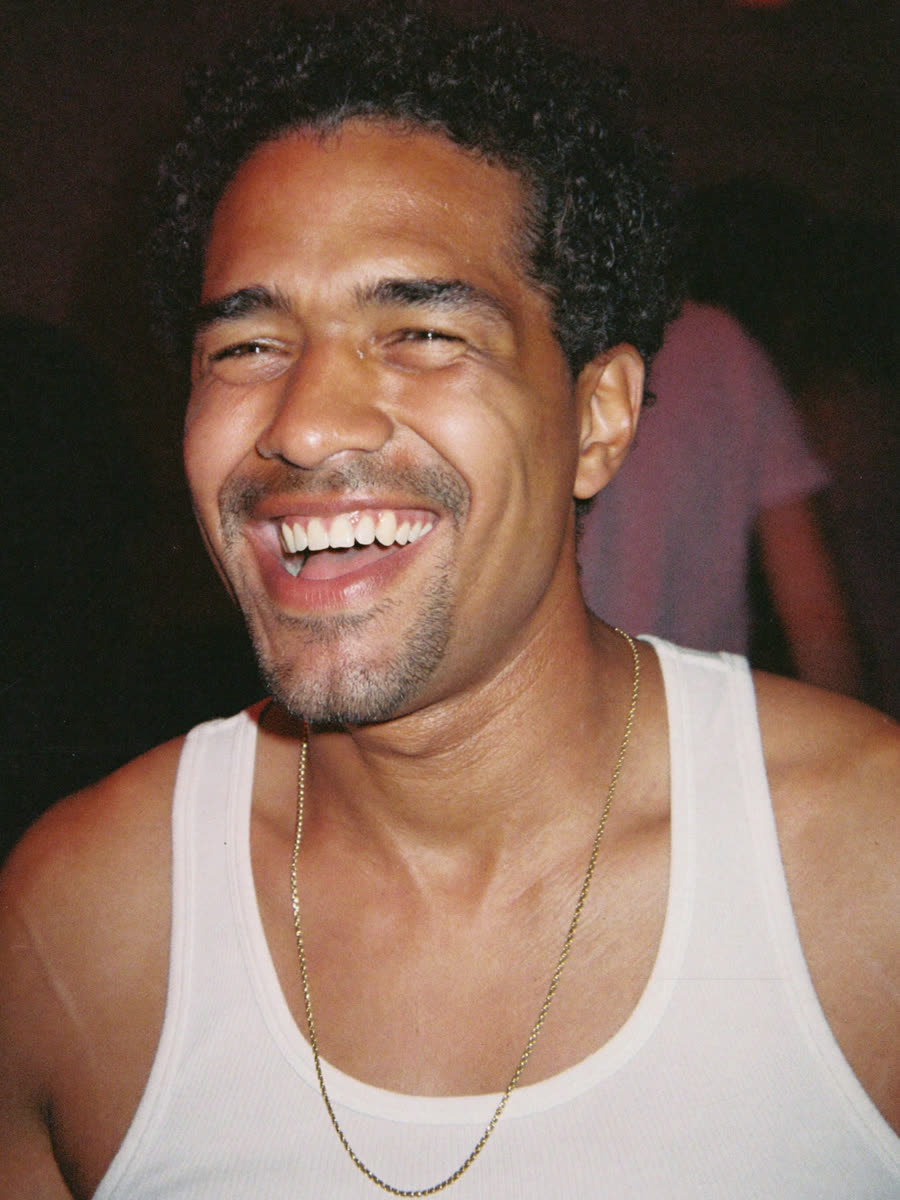
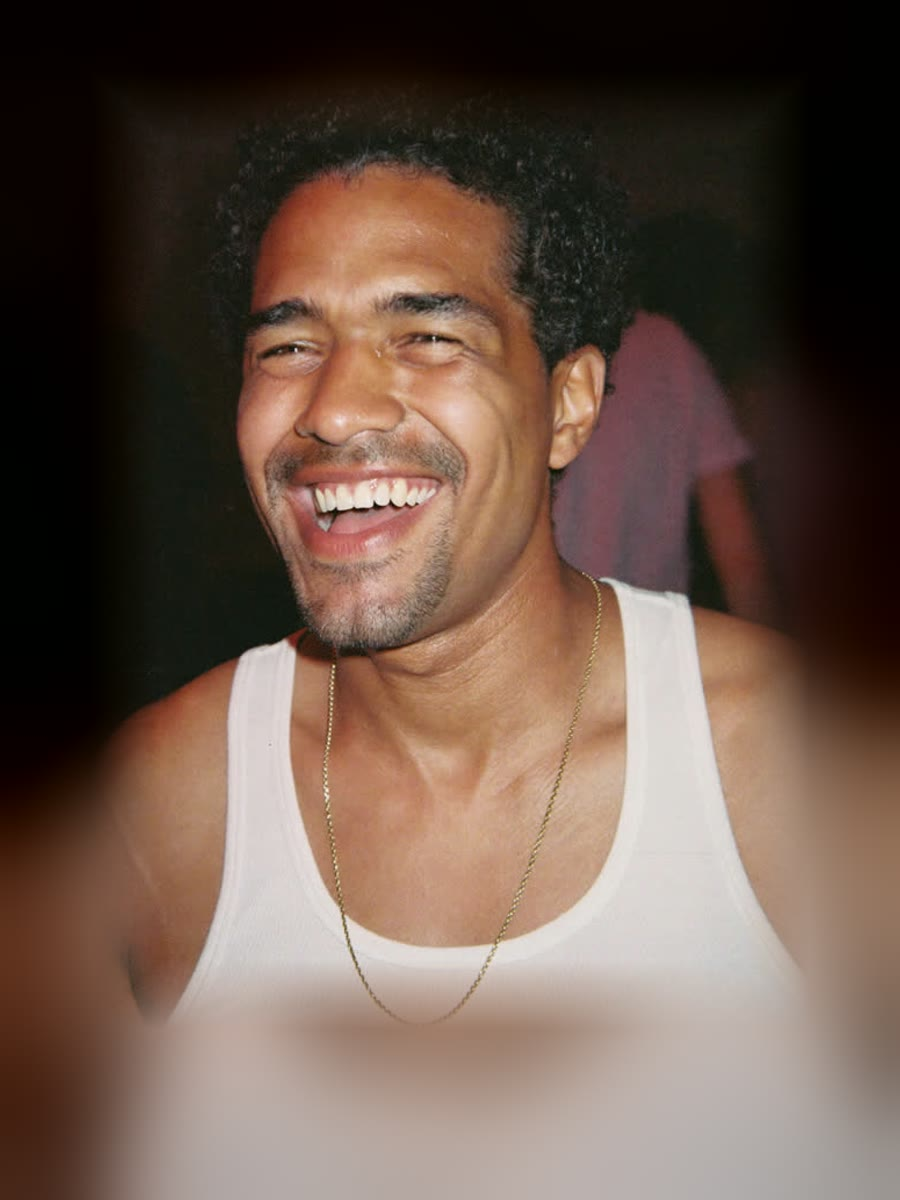
The wordmark stops going through the optimizer, and the four faces match
The logo that "disappeared" was never layout: next/image's dev optimizer HANGS
on this PNG at w=640 and above — 25s with no response — so the browser's request
simply never came back. It renders at w=384 in 52ms, which is why it survived
some loads and not others, and why restarting the server appeared to fix it.
A 25KB wordmark is smaller than the optimizer's own round trip, so all three
copies are `unoptimized` and served straight from /public. Verified loading at
both breakpoints on both pages.

The four role photographs were shot at four different distances: heads measured
115, 130, 125 and 195 pixels on a common scale, which is why the promoter looked
like he was leaning into the camera. Artist, agent and venue are cropped tighter
and the promoter is scaled down into a blurred, feathered surround — a flat pad
left a visible rectangle, and his frame has no room to crop outward. All four
now land near 150.

/founding's run takes the website's heading too ("Everything a booking takes —
in one place"), read from the catalogue like its five captions, so it is still
eight languages with nothing new to translate.

diff --git a/src/app/founding/_components/FoundingExperience.tsx b/src/app/founding/_components/FoundingExperience.tsx
@@ -166,7 +166,7 @@ function Hero() {
           animate={{ opacity: 1, scale: 1, filter: "blur(0px)" }}
           transition={{ duration: 1, ease: EASE }}
         >
-          <Image src="/tora_logo_transparent.png" alt="TORA" width={500} height={166} priority className="h-auto w-[190px] md:w-[260px]" />
+          <Image unoptimized src="/tora_logo_transparent.png" alt="TORA" width={500} height={166} priority className="h-auto w-[190px] md:w-[260px]" />
         </motion.div>
 
         <motion.span
@@ -356,7 +356,7 @@ function RolePicker() {
   );
 }
 
-function Journey({ journey }: { journey: JourneyStep[] }) {
+function Journey({ journey, heading }: { journey: JourneyStep[]; heading: string }) {
   const c = useC();
   const { open } = useHomeDrawer();
   return (
@@ -365,7 +365,7 @@ function Journey({ journey }: { journey: JourneyStep[] }) {
         <Reveal><Eyebrow>{c.journey.eyebrow}</Eyebrow></Reveal>
         <Reveal delay={0.05}>
           <h2 className="mt-5 max-w-3xl text-[clamp(28px,5vw,60px)] font-black uppercase leading-[0.98] tracking-tight text-white text-balance" style={rajdhani}>
-            {c.journey.heading}
+            {heading}
           </h2>
         </Reveal>
 
@@ -432,7 +432,7 @@ function Door() {
         </Reveal>
         <Reveal delay={0.26}>
           <div className="mt-16 flex flex-col items-center gap-4">
-            <Image src="/tora_logo_transparent.png" alt="TORA" width={400} height={133} className="h-auto w-[132px] opacity-90" />
+            <Image unoptimized src="/tora_logo_transparent.png" alt="TORA" width={400} height={133} className="h-auto w-[132px] opacity-90" />
             <span className="text-[11px] uppercase tracking-[0.4em] text-white/45" style={supreme}>{c.hero.footer}</span>
           </div>
         </Reveal>
@@ -472,7 +472,7 @@ function ChapterNav() {
 }
 
 
-export function FoundingExperience({ content, lang, journey }: { content: FoundingContent; lang: LangCode; journey: JourneyStep[] }) {
+export function FoundingExperience({ content, lang, journey, journeyHeading }: { content: FoundingContent; lang: LangCode; journey: JourneyStep[]; journeyHeading: string }) {
   const { map, labels } = buildDrawer(content);
   return (
     <Cx.Provider value={content}>
@@ -486,7 +486,7 @@ export function FoundingExperience({ content, lang, journey }: { content: Foundi
           <Hero />
           <ProblemSolution />
           <RolePicker />
-          <Journey journey={journey} />
+          <Journey journey={journey} heading={journeyHeading} />
           <Door />
         </main>
       </HomeDrawerProvider>

diff --git a/src/components/sections/home2/HomeV2.tsx b/src/components/sections/home2/HomeV2.tsx
@@ -62,7 +62,12 @@ export function HomeV2() {
           transition={{ duration: 1, ease: EASE }}
           className="flex flex-col items-center"
         >
+          {/* Straight from /public: a 25KB wordmark is smaller than the
+              optimizer's round trip, and routing it through next/image is what
+              made it vanish — the optimizer hangs on this PNG at w=640 and
+              above, so the request never came back. */}
           <Image
+            unoptimized
             src="/tora_logo_transparent.png"
             alt="TORA"
             width={500}

diff --git a/src/app/founding/[lang]/page.tsx b/src/app/founding/[lang]/page.tsx
@@ -82,10 +82,11 @@ export default async function FoundingLangPage({
     title: cat[title],
     body: cat[body],
   }));
+  const journeyHeading = cat.home_solutions_title;
 
   return (
     <LenisProvider>
-      <FoundingExperience content={content} lang={lang as LangCode} journey={journey} />
+      <FoundingExperience content={content} lang={lang as LangCode} journey={journey} journeyHeading={journeyHeading} />
     </LenisProvider>
   );
 }
